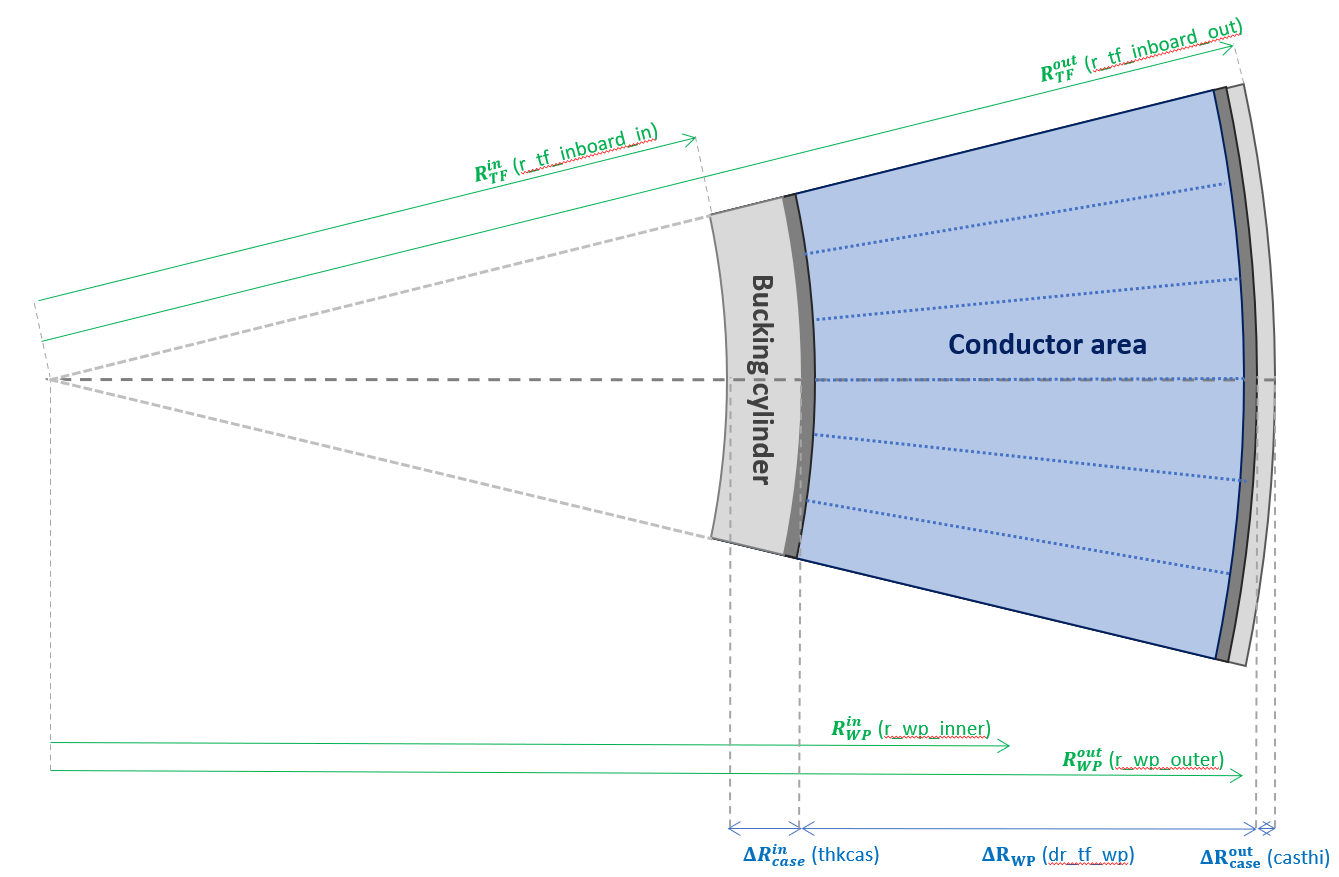
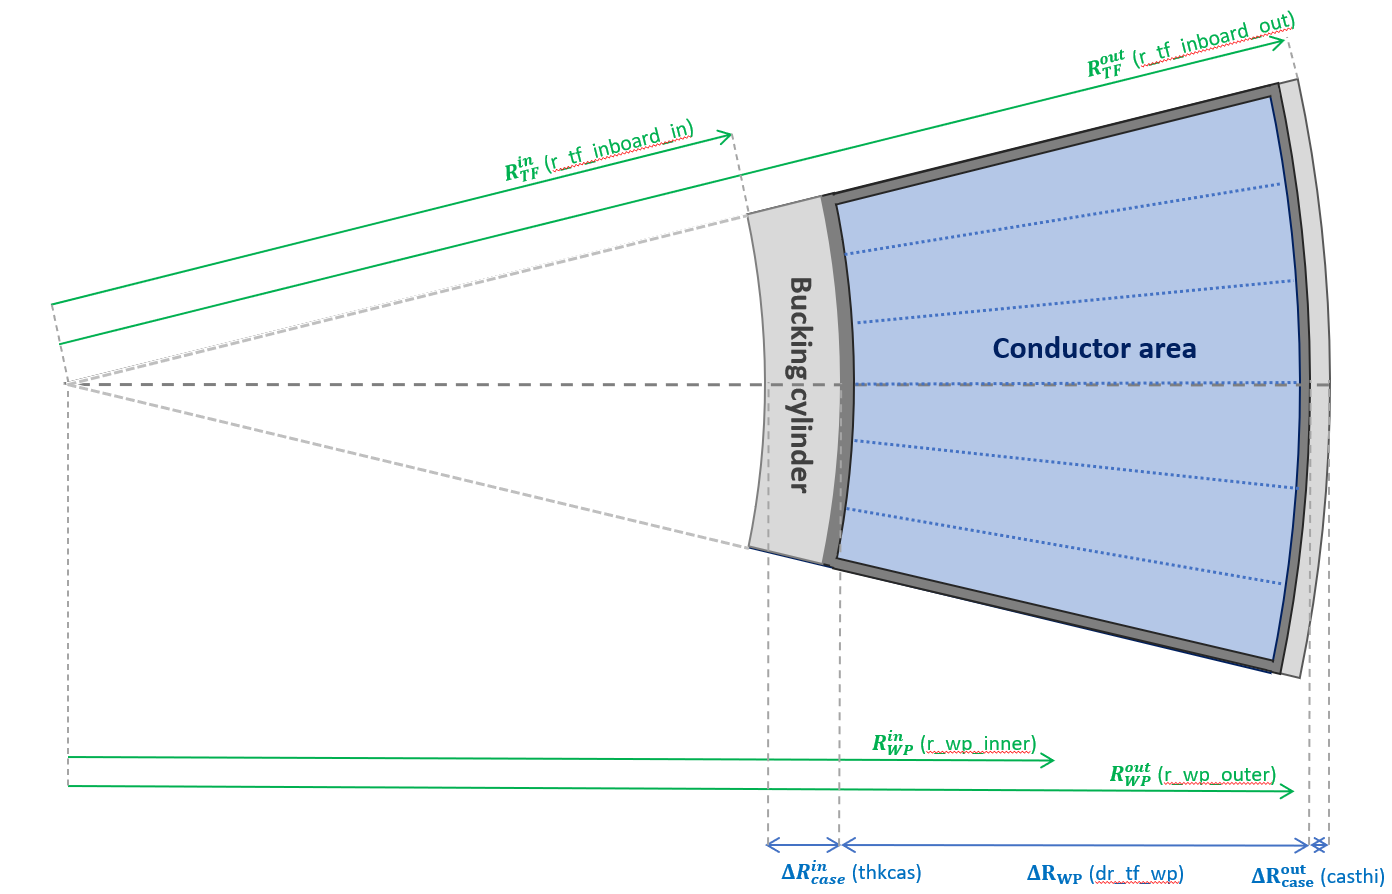
Updating the documentation with wedge turn insulation

diff --git a/documentation/proc-pages/eng-models/tf-coil.md b/documentation/proc-pages/eng-models/tf-coil.md
@@ -311,11 +311,11 @@ turns. The number of turns can be parametrized in three different ways :
     <br><br>
     <figcaption><i>
       <p style='text-align: center;'>
-        Figure 6: Resistive TF coil inboard leg structure at mid-plane. Each
-        turn is wrapped with an insulation layer and cooling channels. The
-        position and the number of cooling shown is not representative of a
-        <em>PROCESS</em> design choice as averaged cooling fraction to 
-        parametrize the cooling.
+        Figure 6: Resistive TF coil inboard leg structure at mid-plane. The
+        disjoint steel case (no lateral case) are shown in light grey. The
+        ground insulation wrapping the turns is shown in grey and the conductor
+        region containing the turns in light blue. The dotted blue illustrate 
+        the location of the 6 coils turn.
       </p>
     </i></figcaption>
     <br>
@@ -335,11 +335,14 @@ turns. The number of turns can be parametrized in three different ways :
     <center>
     <img src="../../images/tfcoil_res_turn.png" alt="Res_geom" 
     title="Schematic diagram of TART tokamak TF coil" 
-    width="200" height="200" />
+    width="650" height="100" />
     <br><br>
     <figcaption><i>
       <p style='text-align: center;'>
-        Figure 7: Schematic view of a four resistive TF coil turns. 
+        Figure 7: Schematic view of a four resistive TF coil turns. The
+        position and the number of cooling channels shown is not representative
+        of a <em>PROCESS</em> design as no cooling channel position is specified
+        in PROCESS (the cooling fraction and pipe diameters are the inputs).
       </p>
     </i></figcaption>
     <br>
